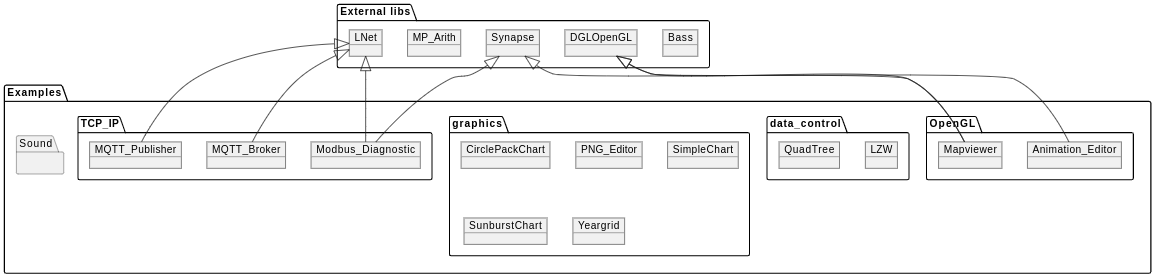
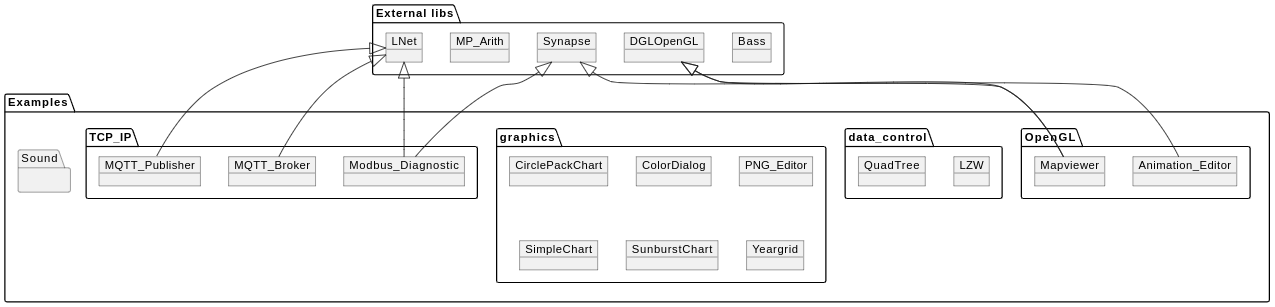
Update docu

diff --git a/README.md b/README.md
@@ -72,6 +72,7 @@ Collection of classes and examples corresponding to graphic / image processing
 | Example | Description |
 | --- | --- |
 | CirclePackChart | Demo application for ucirclepackchart.pas |
+| ColorDialog | Demo application for ucolordialog.pas |
 | PNG_Editor | Split and merge alpha channel of .png images |
 | SimpleChart | Demo application for usimplechart.pas |
 | SunburstChart | Demo application for usunburstchart.pas |
